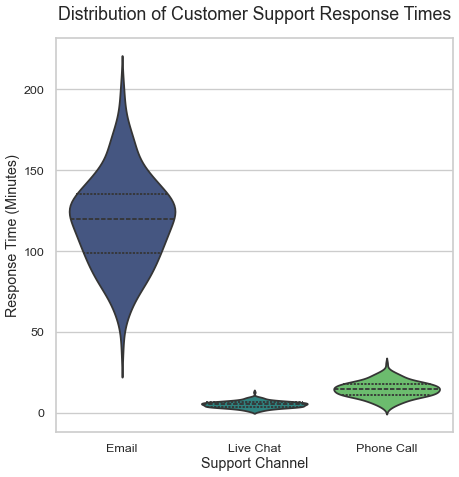
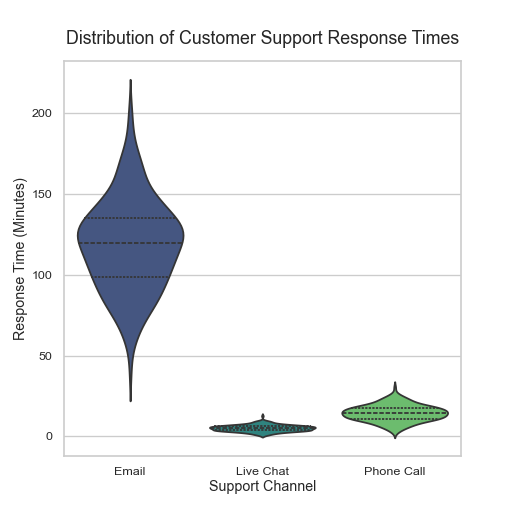
Update chart.py to save chart without bbox_inches adjustment, ensuring consistent pixel dimensions for chart.png

Changed region(s): [[0.0, 0.0, 1.0, 0.9979], [0.061, 0.1761, 0.1525, 0.2348], [0.061, 0.6751, 0.122, 0.7044]]

diff --git a/chart.py b/chart.py
@@ -48,8 +48,9 @@ plt.yticks(fontsize=14)
 
 # --- 5. Export Chart ---
 # Save the chart as a PNG file with the exact required dimensions.
+# Do NOT use bbox_inches='tight' or layout adjustments, as they can change pixel size.
 # figsize=(8, 8) and dpi=64 results in 8*64 x 8*64 = 512x512 pixels.
-plt.savefig('chart.png', dpi=64, bbox_inches='tight')
+plt.savefig('chart.png', dpi=64)
 
 print("Successfully generated and saved chart.png (512x512 pixels).")
 
